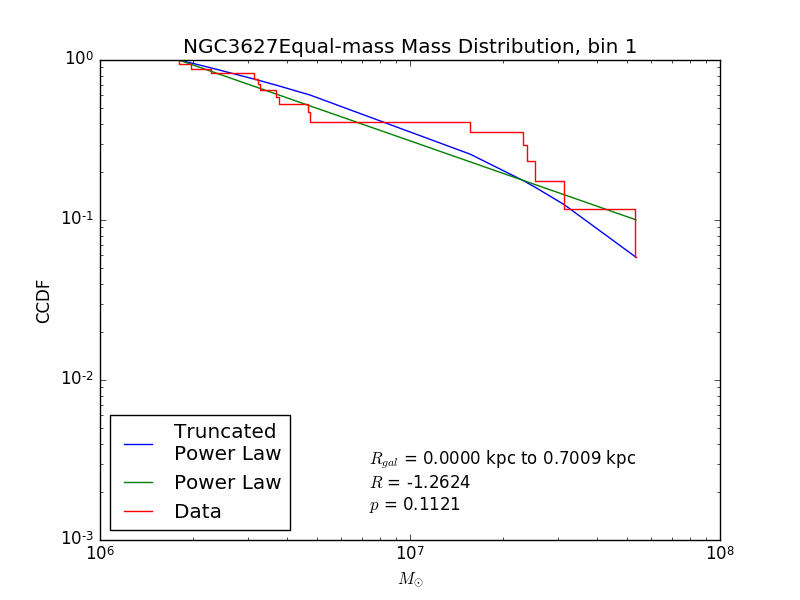
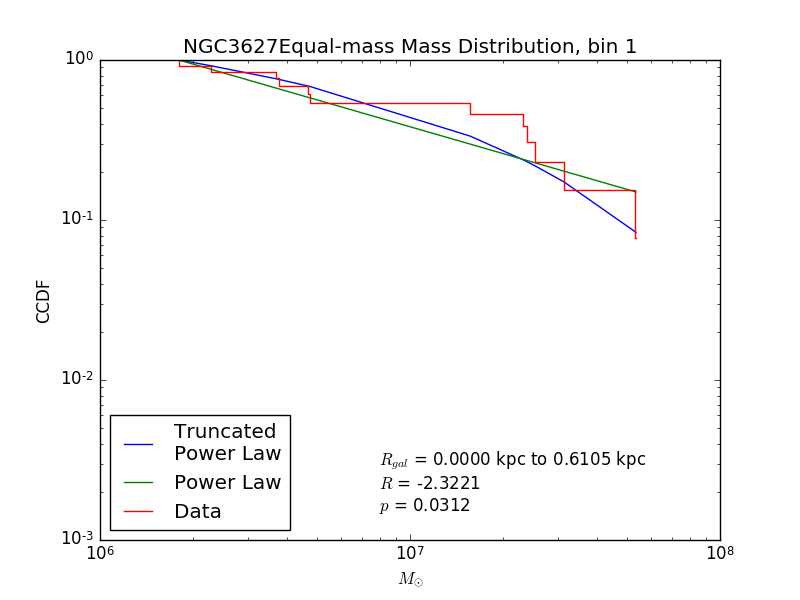
I added the analysis of NGC 4303. The text added to the power law graphs has been reformatted to be uniform throughout all of the bins, and the 'data' analysis of NGC 6744 no longer produces an error.

Changed region(s): [[0.2188, 0.09, 0.8125, 0.42], [0.4688, 0.75, 0.8125, 0.87]]

diff --git a/Code/mkgraph.py b/Code/mkgraph.py
@@ -222,7 +222,7 @@ def data(galaxyname,data,n_bins=1):
      start = 0
      mass_equiv = [0]    #indeces for the sorted mass bins of equal mass
      mass_area = [0]    #indeces for the sorted mass bins of equal area
-     rgal_equiv = [0,2**0.5,2,6**0.5]
+     rgal_equiv = [0,2,8**0.5,12**0.5,4,20**0.5,24**0.5,28**0.5,32**0.5,6]
      r = 1               #equal-area radial index
      e = 0               #edge index
      f = 0               #loop flag to skip the mass_area loop
@@ -236,8 +236,6 @@ def data(galaxyname,data,n_bins=1):
                e = e+1
           #Find the indeces for bins of equal area (4pi kpc^2)
           if rgal_sorted[i]>rgal_equiv[r] and not f:
-               if c<3:
-                    f = 1
                if rgal_sorted[i]<rgal_equiv[3] and not f:     
                     mass_area = np.append(mass_area,i)
                     r = r+1
@@ -245,7 +243,6 @@ def data(galaxyname,data,n_bins=1):
                if rgal_sorted[i]>rgal_equiv[3]:
                     f=1
                     mass_area = np.append(mass_area,i)
-          c = c+1
      mass_equiv = np.append(mass_equiv,i)
      inneredge = np.concatenate(([0.000000],edges))
      outeredge = np.concatenate((edges,[edge_f]))
@@ -287,32 +284,36 @@ def data(galaxyname,data,n_bins=1):
           fig = myfit.truncated_power_law.plot_ccdf(label='Truncated\nPower Law')
           myfit.power_law.plot_ccdf(label='Power Law',ax=fig)
           myfit.plot_ccdf(drawstyle='steps',label='Data',ax=fig)
-          
+
           # Format the plot.
           plt.legend(loc=0)
           plt.title(galaxyname+'Equal-mass Mass Distribution, bin '+repr(i+1))
           plt.ylim(ymin=10**-3)
           plt.xlabel(r'$M_\mathrm{\odot}$')
           plt.ylabel('CCDF')
-          plt.text(np.median(binmass)*2,10**-2.8,'$R_{gal}$ = %5.4f kpc to %5.4f kpc\n$R$ = %5.4f\n$p$ = %5.4f'%(inneredge[i],outeredge[i],R,p))
+          plt.text(0.45,0.05,'$R_{gal}$ = %5.4f kpc to %5.4f kpc\n$R$ = %5.4f\n$p$ = %5.4f'%(inneredge[i],outeredge[i],R,p),ha='left',va='bottom',transform=fig.transAxes)
           plt.savefig('../Data/'+galaxyname+'_power_law_equal_mass_'+repr(i+1)+'.png')
           plt.close()
 
      # Plot the mass distribution trend for equal-area bins.
      for i in range(len(mass_area)-1):
-          binmass = mass_sorted[mass_area[i]:mass_area[i+1]]
-          myfit = powerlaw.Fit(binmass)
-          R, p = myfit.distribution_compare('power_law','truncated_power_law')
-          fig = myfit.truncated_power_law.plot_ccdf(label='Truncated\nPower Law')
-          myfit.power_law.plot_ccdf(label='Power Law',ax=fig)
-          myfit.plot_ccdf(drawstyle='steps',label='Data',ax=fig)
-          
-          # Format the plot.
-          plt.legend(loc=0)
-          plt.title(galaxyname+'Equal-area Mass Distribution, bin '+repr(i+1))
-          plt.ylim(ymin=10**-3)
-          plt.xlabel(r'$M_\mathrm{\odot}$')
-          plt.ylabel('CCDF')
-          plt.text(np.median(binmass)*2,10**-2.8,'$R_{gal}$ = %5.4f kpc to %5.4f kpc\n$R$ = %5.4f\n$p$ = %5.4f'%(rgal_equiv[i],rgal_equiv[i+1],R,p))
-          plt.savefig('../Data/'+galaxyname+'_power_law_equal_area_'+repr(i+1)+'.png')
-          plt.close()
+          f = 0     #loop flag
+          if mass_area[i+1]-mass_area[i]<3:
+               f = 1
+          if not f:
+               binmass = mass_sorted[mass_area[i]:mass_area[i+1]]
+               myfit = powerlaw.Fit(binmass)
+               R, p = myfit.distribution_compare('power_law','truncated_power_law')
+               fig = myfit.truncated_power_law.plot_ccdf(label='Truncated\nPower Law')
+               myfit.power_law.plot_ccdf(label='Power Law',ax=fig)
+               myfit.plot_ccdf(drawstyle='steps',label='Data',ax=fig)
+
+               # Format the plot.
+               plt.legend(loc=0)
+               plt.title(galaxyname+'Equal-area Mass Distribution, bin '+repr(i+1))
+               plt.ylim(ymin=10**-3)
+               plt.xlabel(r'$M_\mathrm{\odot}$')
+               plt.ylabel('CCDF')
+               plt.text(0.45,0.05,'$R_{gal}$ = %5.4f kpc to %5.4f kpc\n$R$ = %5.4f\n$p$ = %5.4f'%(rgal_equiv[i],rgal_equiv[i+1],R,p),ha='left',va='bottom',transform=fig.transAxes)
+               plt.savefig('../Data/'+galaxyname+'_power_law_equal_area_'+repr(i+1)+'.png')
+               plt.close()

diff --git a/Code/co21_data.py b/Code/co21_data.py
@@ -39,8 +39,8 @@ mkgraph.data('NGC4254','NGC4254_co21_cube_props_clfind.fits',5)
 #NGC4303
 mkgraph.graphs ('NGC4303','NGC4303_co21_cube_props_clfind.fits')
 mkgraph.mapgmc ('NGC4303','NGC4303_co21_cube_props_clfind.fits','NGC4303_co21_cube_tpeak.fits')
-#mkgraph.param ('NGC4303','NGC4303_co21_cube_props_clfind.fits')
-#mkgraph.data('NGC4303','NGC4303_co21_cube_props_clfind.fits')
+mkgraph.param ('NGC4303','NGC4303_co21_cube_props_clfind.fits')
+mkgraph.data('NGC4303','NGC4303_co21_cube_props_clfind.fits',5)
 
 #NGC4321
 mkgraph.graphs ('NGC4321','NGC4321_co21_cube_props_clfind.fits')
